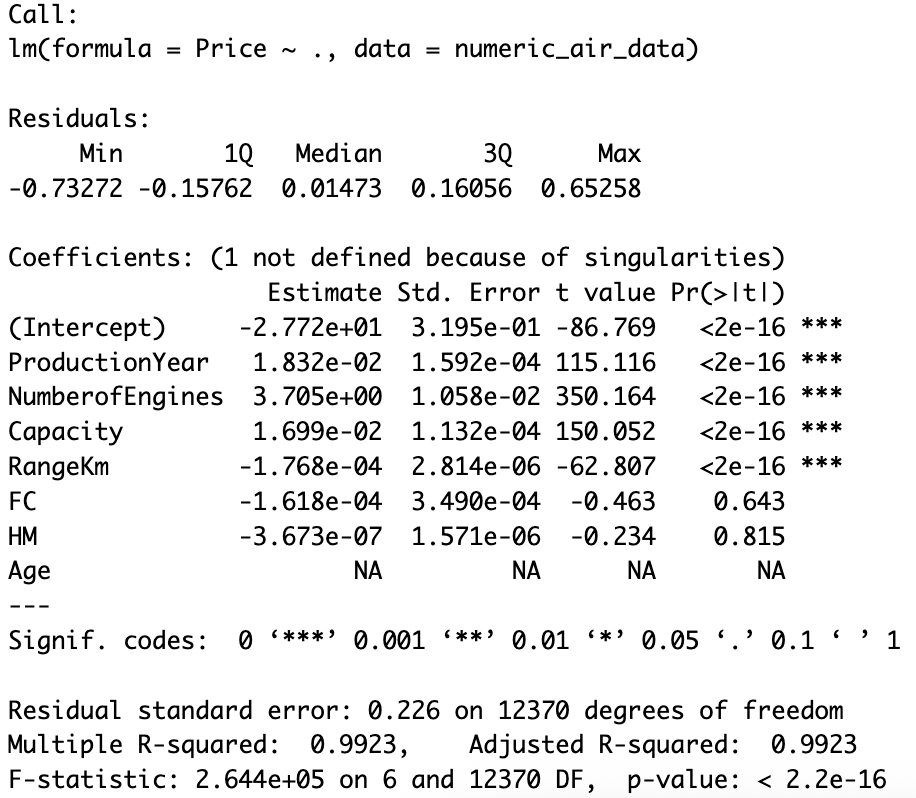
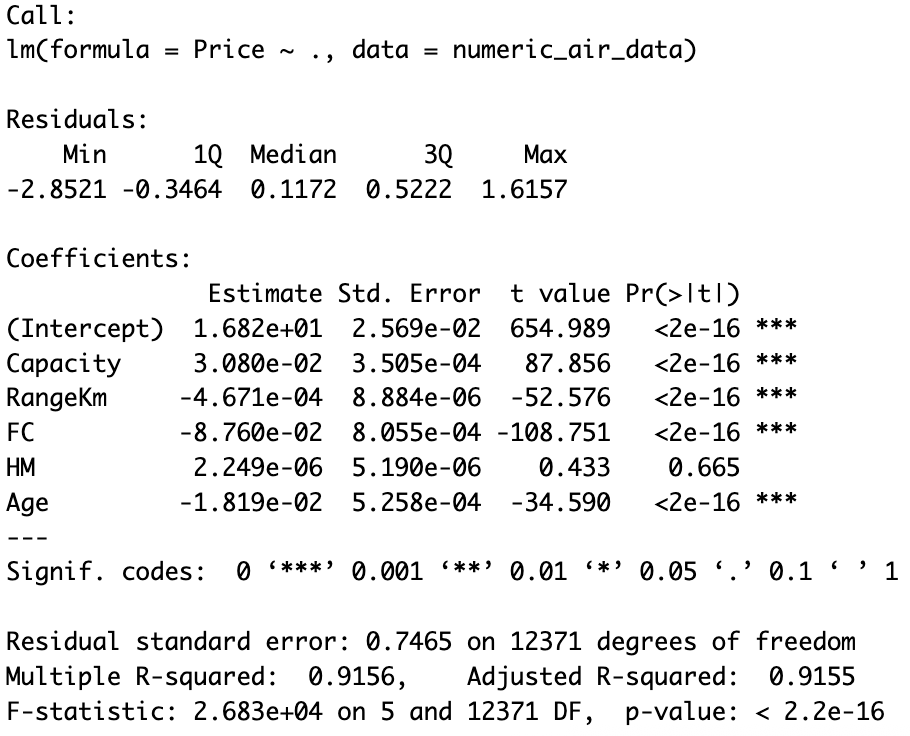
q3 fix

diff --git a/Assignment01/Q3/README.md b/Assignment01/Q3/README.md
@@ -5,16 +5,19 @@
 ![figure01](./01-price-plots.png)
 *Figure 01*
 
-According to plot analysis, we are selecting variables NumberOfEngines, Capacity, and RangeKm as best candidates for the linear model bc those show the most linear relationship with Price.
+According to plot analysis, we selected the variables `Capacity`, `RangeKm`, and `FC` (Fuel Consumption) as the best candidates for the linear model because they show the most linear relationship with `Price`. A `log()` transformation was applied to `Price` to normalize its distribution.
 
-The correlation matrix tell us indeed that NumberofEngines, Capacity and RangeKm are the top 3 with the highest correlation to Price.
+The correlation matrix confirmed that `Capacity`, `RangeKm`, and `FuelConsumption` are the top 3 numerical variables with the highest correlation to `Price`.
 
 ![figure02](./02-plot-residual-vs-fitted.png)
 *Figure 02*
 
-The Residual vs Fitted plots suggest that:
-- NumberofEngines is showing a nearly linear relationship with Price
-- In the case of Capacity and RangeKm, the model may need to include a quadratic term
+The Residual vs Fitted plots suggested that the model may need a quadratic term. After comparing `Capacity` vs `RangeKm` using a quadratic term, the ANOVA shows that `RangeKm` + `RangeKm^2` yields the lowest RSS results.
+
+![figure2.1](./02.1-plot-res-vs-fitted.png)
+*Figure 2.1*
+
+The new model with the quadratic term shows better residuals.
 
 
 #### Regression assumptions analysis
@@ -22,7 +25,7 @@ The Residual vs Fitted plots suggest that:
 ![figure03](./03-reg-assumptions.png)
 *Figure 03*
 
-> This model shows p-value < 0.05 on the Breusch-Pagan, meaning it has signs of heteroscedasticity!!!
+> This model shows p-value < 0.05 on the Breusch-Pagan, meaning it has signs of heteroscedasticity.
 
 
 #### Conclusion
@@ -30,11 +33,9 @@ The Residual vs Fitted plots suggest that:
 ![figure04](./04-modela-summary.png)
 *Figure 04*
 
-We have selected NumberofEngines as the best single predictor because it shows a linear high correlation vs Price and also high R-squared value, meaning it alone explains the highest proportion of the variance in airplane prices
-
-Selecting NumberofEngines for now with R2 = 0.7792 meaning 78% of the log(Price) change can be explained by the independent variable NumberofEngines
-- Intercept ($\beta_0$): Estimated baseline Price of an airplane
-- Slope for NumeberofEngines ($\beta_1$): For each additional engine, the log(Price) increases by $\beta_1$, meaning Price increases exponentially by $e^{\beta_1}$
+We selected `RangeKm` (along with its quadratic transformation) as the best single predictor because it shows a high correlation with Price and explains the highest proportion of the variance in airplane prices.
+- **Intercept ($\beta_0$)**: The expected log(Price) or baseline price of a plane.
+- **Slope for RangeKm ($\beta_1$ & $\beta_2$)**: For each additional `RangeKm`, the log(Price) increases by $\beta_1$ and $\beta_2$, meaning Price increases exponentially by $e^{\beta_2}$
 
 
 ## Fit a multivariate linear regression model with the most important two (numerical) variables. Use transformations if it is needed and test all the assumptions. Then compare this model to the simple linear regression model that you fit in (a). Which one is a better model? Why? 
@@ -47,16 +48,16 @@ summary(regmodel.all)
 ![figure05](./05-lm-all-predictors.png)
 *Figure 05*
 
-The previous lm tell us that predictors NumberofEngines + Capacity + ProductionYear + RangeKm do have high significance when predicting the Price
+First, we checked a model against all our top variables: `Capacity`, `RangeKm`, `FC`, and `Age`.
 
 ```r
-regmodel.best4 <- lm(Price ~ NumberofEngines + Capacity + ProductionYear + RangeKm, data = numeric_air_data)
+regmodel.best4 <- lm(Price ~ Capacity + RangeKm + FC + Age, data = numeric_air_data)
 summary(regmodel.best4)
 
 anova(regmodel.all, regmodel.best4)
 ```
 
-The ANOVA confirms that model with all of the predictors is not significantly better than the model with the 4 predictors
+The ANOVA confirmed that the model with all predictors is not significantly better than the model with these 4 predictors. However, checking Variance Inflation Factors (VIF) revealed critical multicollinearity.
 
 ```r
 cor(numeric_air_data[,-price.col])
@@ -66,27 +67,11 @@ vif(regmodel.best4)
 ![figure06](./06-multicollinear-predictors.png)
 *Figure 06*
 
-The Correlation Matrix and VIF tell us that Capacity and RangeKm are highly correlated. VIF also tell us that there is a multicollinearity problem within our predictors. We choose to drop the predictor with the highest VIF: Capacity
-
-```r
-regmodel.best3 <- lm(Price ~ NumberofEngines + ProductionYear + RangeKm, data = numeric_air_data)
-summary(regmodel.best3)
-vif(regmodel.best3)
-```
+The Correlation Matrix and VIF tell us that Capacity and RangeKm are highly correlated. VIF also tell us that there is a multicollinearity problem within our predictors. We choose to drop the predictor with the highest VIF: `Capacity`
 
 Now, VIF shows no multicollinearity among the selected predictors.
 
-```r
-regmodel.b1 <- lm(Price ~ NumberofEngines + ProductionYear, data = numeric_air_data)
-summary(regmodel.b1)
-regmodel.b2 <- lm(Price ~ NumberofEngines + RangeKm, data = numeric_air_data)
-summary(regmodel.b2)
-
-anova(regmodel.best3, regmodel.b1)  # Drop RangeKm predictor
-anova(regmodel.best3, regmodel.b2)  # Drop ProductionYear predictor
-```
-
-After comparing both models, dropping each extra predictor, we observe that keeping RangeKm predictor leads to higher R2 (prediction power) and a smaller Sum of Square Residuals. So, we decided to choose NumberofEngines + RangeKm
+By systematically dropping predictors and comparing via ANOVA, we discovered that keeping `RangeKm` and `FC` led to higher $R^2$ and a smaller Sum of Square Residuals. Similar to the SLR, adding a quadratic term `RangeKm^2` further improved the model.
 
 
 #### Model A vs Model B comparison
@@ -94,8 +79,8 @@ After comparing both models, dropping each extra predictor, we observe that keep
 ![figure07](./07-compare-modela-modelb.png)
 *Figure 07*
 
-- The MLR model with NumberOfEngines + RangeKm do have a higher adjusted R-squared and lower AIC than the SLR with NumberOfEngines alone, indicating a better fit. 
-- The ANOVA F-test tells us whether adding the second variable significantly improves the model.
+- The MLR model with RangeKm + RangeKm^2 + FC has a higher adjusted R-squared and a lower residual standard error than the SLR with Capacity alone, indicating a better fit.
+- The ANOVA F-test confirms that adding the second variable significantly improves the model.
 
 
 #### Regression assumptions analysis
@@ -103,43 +88,45 @@ After comparing both models, dropping each extra predictor, we observe that keep
 ![figure08](./08-modelb-assumptions.png)
 *Figure 08*
 
-> This model also shows p-value < 0.05 on the Breusch-Pagan, meaning it has signs of heteroscedasticity!!!
-
 
 ## Encode the variable model into three categories considering whether the plane is “Airbus”, “Boeing” or “Other”. Now add this model factor to the regression model you have chosen in section (b). Interpret the coefficients and overall summary of the model. Compare the model in section (b) with the model that has an additional factor. Which one would you choose? Why?
 
-![figure09](./10-modelc-summary.png)
+We added ModelCat to our selected model. However, introducing `ModelCat` made `FC` statistically insignificant. We dropped `FC` to simplify the model, yielding: `lm(Price ~ RangeKm_2 * ModelCat + RangeKm)`.
+
+![figure09](./09-modelc-summary.png)
 *Figure 09*
 
 #### Conclusion
 
-- Intercept ($\beta_0$): Estimated baseline Price of an airplane
-- Slope for NumeberofEngines ($\beta_1$): For each additional engine, the log(Price) increases by $\beta_1$, meaning Price increases exponentially by $e^{\beta_1}$
-- Slope for RangeKm ($\beta_2$): For each additional RangeKm, the log(Price) increases by $\beta_2$, meaning Price increases exponentially by $e^{\beta_2}$
+- Intercept ($\beta_0$): Expected log(Price) for the baseline category.
+- ModelCat effects: The coefficients for Boeing and "Other" represent the shift in the baseline log(Price) compared to Airbus.
+- Interaction (RangeKm_2 * ModelCat): The slope for the squared range changes depending on the airplane manufacturer.
 
-#### TODO: interpret coefficients and model
-- add residual vs fitted
-- put coefficients as CI (not point estimations)
+![figure10](./10-modelc-res-vs-fitted.png)
+*Figure 10*
 
+The Residual vs Fitted plot shows good results.
 
 #### Model B vs Model C comparison
 
-![figure10](./09-compare-modelb-modelc.png)
-*Figure 10*
+![figure11](./11-compare-modelb-modelc.png)
+*Figure 11*
 
-- The ANOVA analysis, tell us that adding ModelCat to the model decreases the Residual Sum of Squares, meaning the model improves with this new variable.
-- Also, this new model passes the Breusch-Pagan tests meaning it shows homoscedasticity, which make it good for linear regression.
-
-We decided to select model C as out best model.
+- The ANOVA analysis tells us that adding ModelCat decreases the Residual Sum of Squares, meaning the model significantly improves with this new variable.
+- We selected this interaction model (Model C) as our best model.
 
 
 ## Test the validity of the final model that you choose.
 
-![figure11](./11-modelc-assumptions.png)
-*Figure 11*
+![figure12](./12-modelc-assumptions.png)
+*Figure 12*
 
-#### Our final model C:
-- Q-Q plot follows the diagonal (normality holds).
-- Breusch-Pagan p > 0.05 (constant variance / homoscedasticity holds).
-- Durbin-Watson statistic is close to 2 (no autocorrelation).
-- All VIF values < 5 (no severe multicollinearity).
+To fully validate the predictive power of our chosen model `(Price ~ RangeKm_2 * ModelCat + RangeKm)`, we split the data into an 80% training set and a 20% testing set.
+
+![figure13](./13-actual-vs-predicted.png)
+*Figure 13*
+
+#### Validity and Performance
+- Out-of-sample MSE: We calculated the Mean Squared Error against the holdout Test Set, which quantifies the average squared prediction error on unseen data.
+- Diagnostics: The Q-Q plot of the final model mostly follows the diagonal (normality holds). Durbin-Watson statistic is close to 2 (no autocorrelation).
+- Plotting `Actual vs Predicted` values from the test set showed data points clustering closely around the ideal `y = x` reference line, meaning the model generalizes well and confirms our findings.
